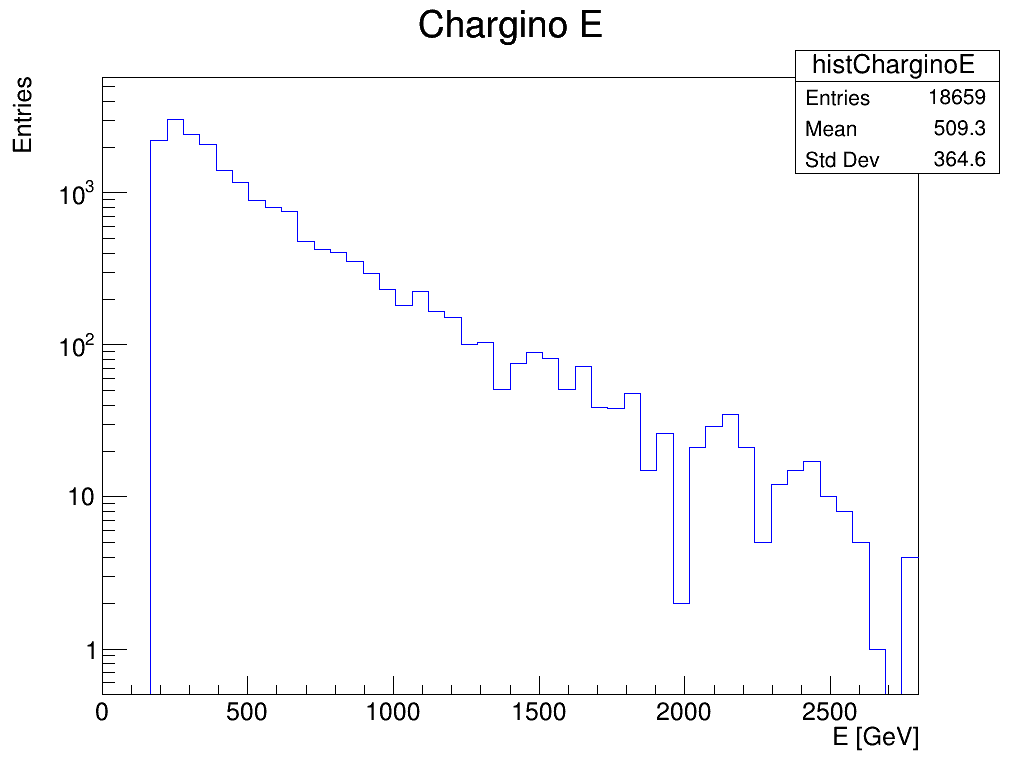
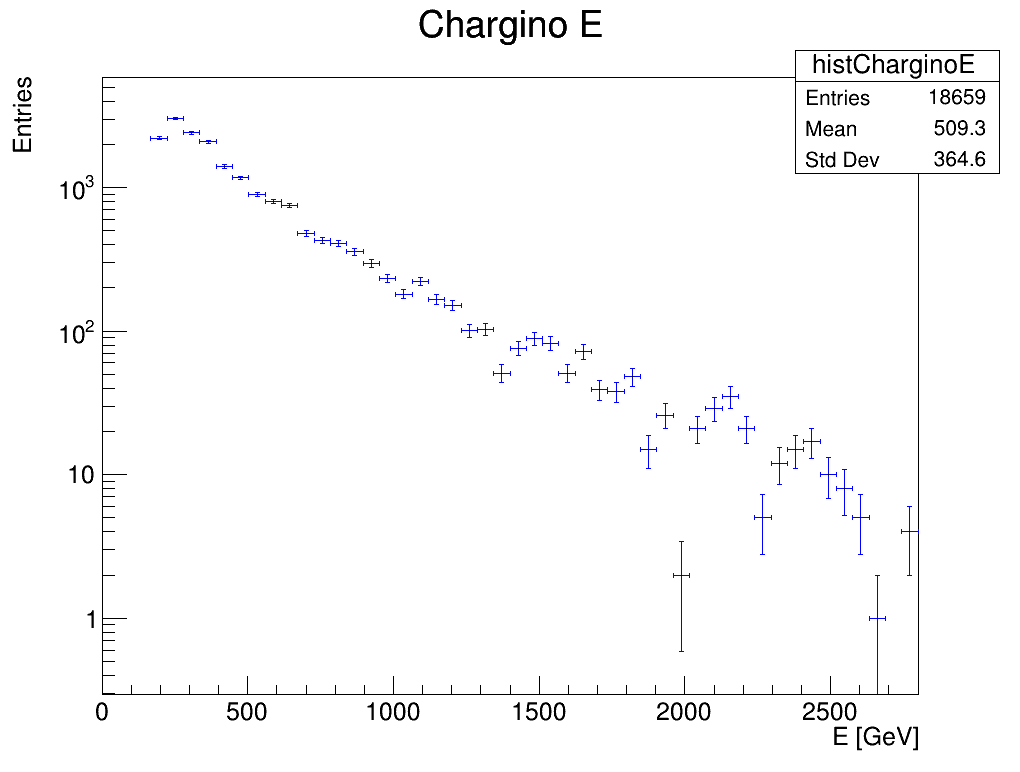
New modifications

diff --git a/ExpPhysFinalProyect/SecondReport/Code/SecondReport_Plotting.C b/ExpPhysFinalProyect/SecondReport/Code/SecondReport_Plotting.C
@@ -52,7 +52,7 @@ void SecondReport_Plotting()
   	histCharginoE_Data -> GetXaxis() -> SetTitle("E [GeV]");
   	histCharginoE_Data -> GetYaxis() -> SetTitle("Entries");
   	histCharginoE_Data -> GetYaxis() -> SetTitleOffset(1.4);
-  	histCharginoE_Data -> Draw();
+  	histCharginoE_Data -> Draw("e1");
 
   	c -> SaveAs("histCharginoE.png");
 
